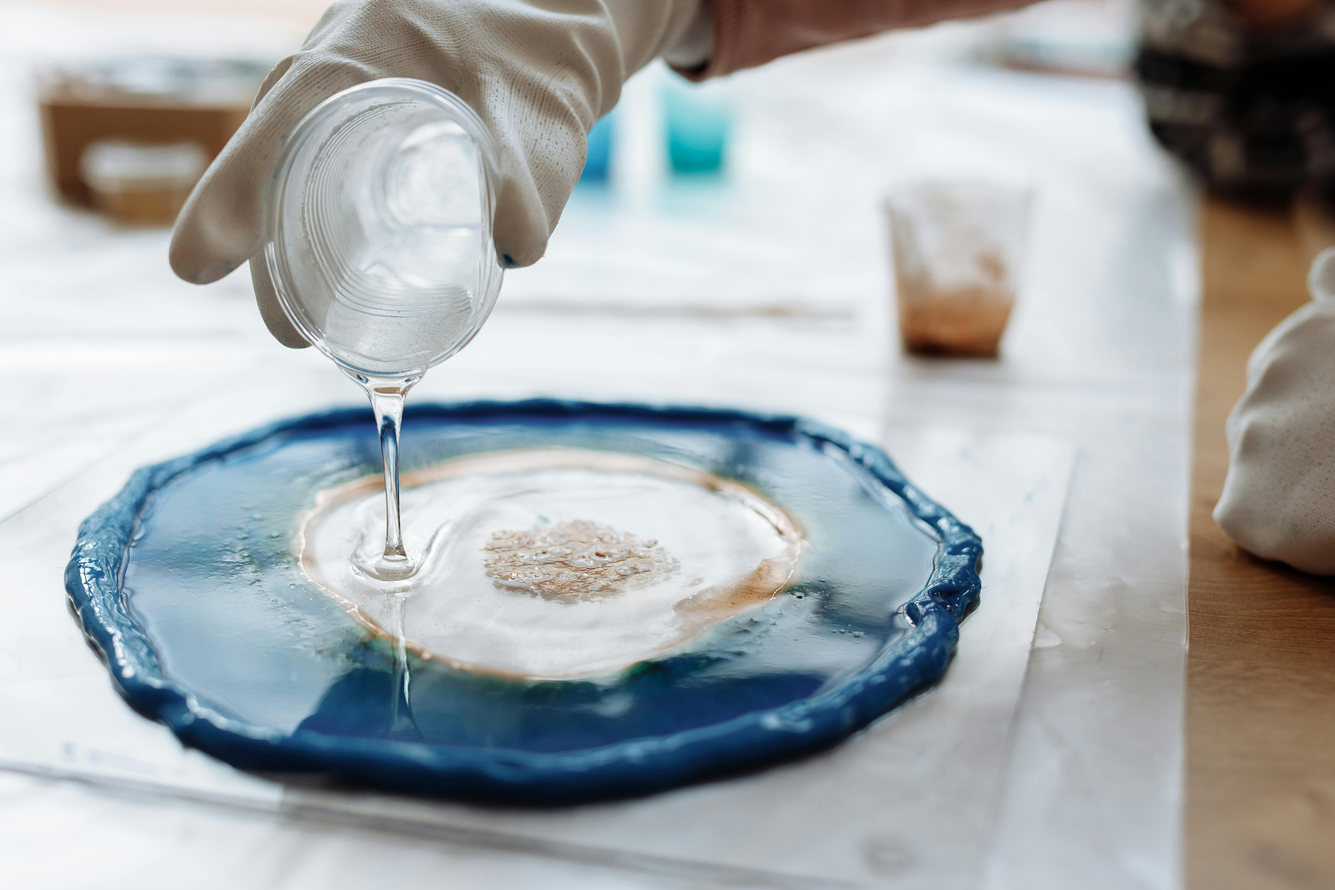
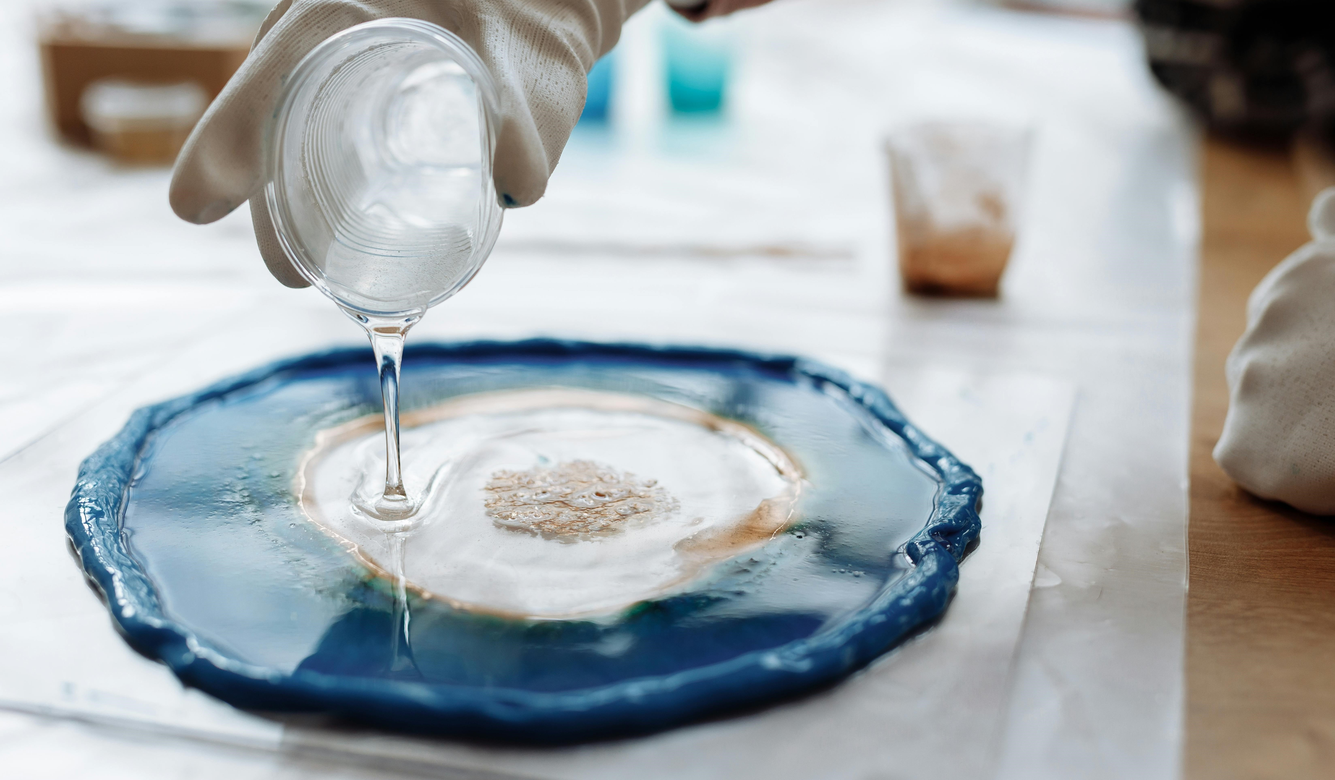
修改圖片大小

diff --git a/pages/FAQ.html b/pages/FAQ.html
@@ -81,5 +81,14 @@
 
         <img src="../images/FAQ_Related/FAQ_title_img.jpg">
     </div>
+
+    <!--FAQ 內容-->
+    <div id="FAQ_content">
+
+        <div id="FAQ_search">
+            
+        </div>
+
+    </div>
 </body>
 </html>

diff --git a/css/FAQ.css b/css/FAQ.css
@@ -1,7 +1,7 @@
 /*FAQ_tile*/
 #FAQ_img{
     /* border: 1px solid black; */
-    height: 750px;
+    height: 550px;
     position:relative;
     z-index: 0;
 }
